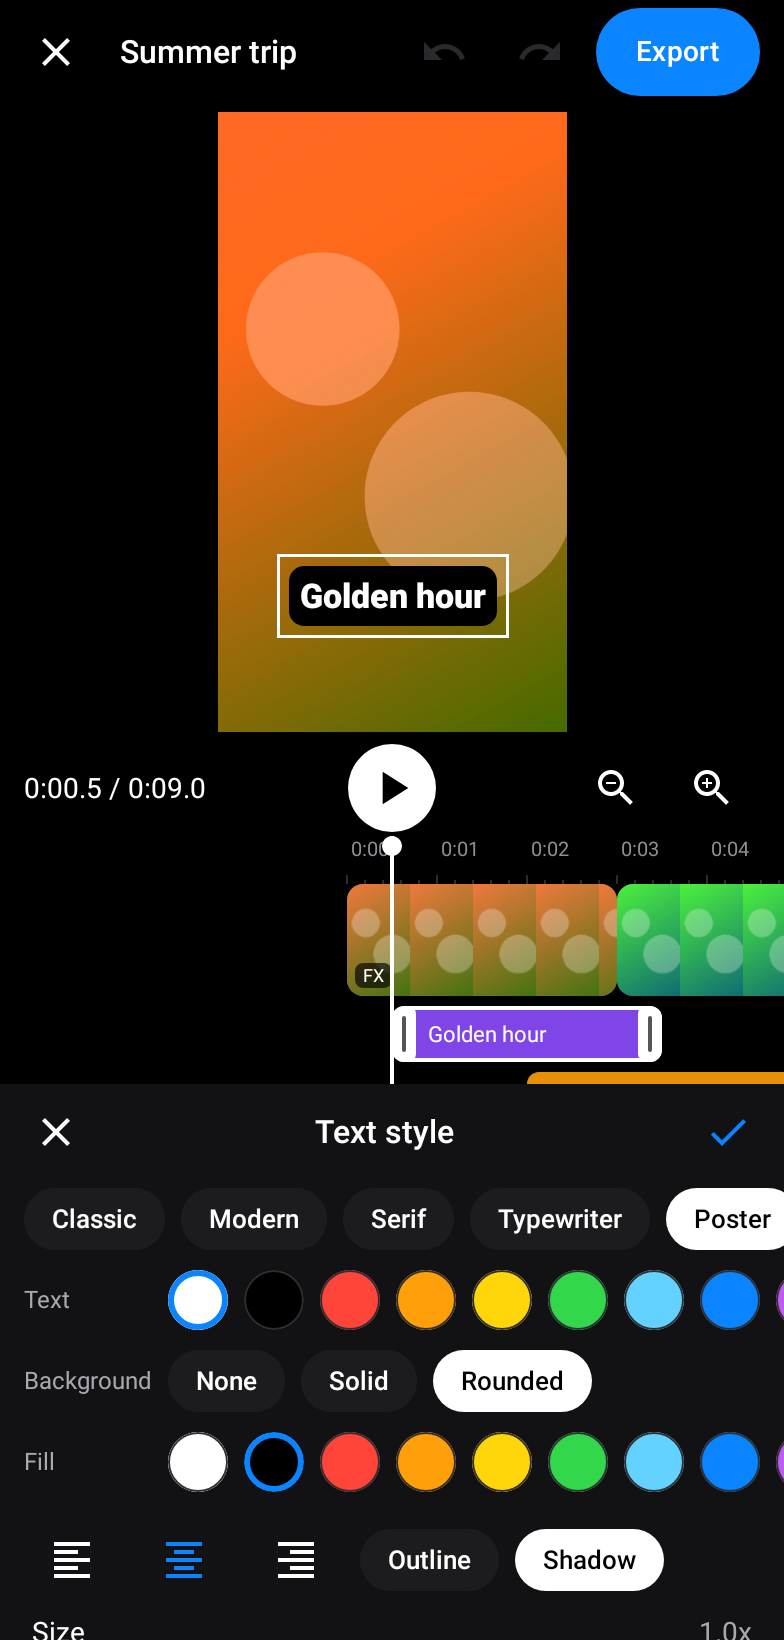
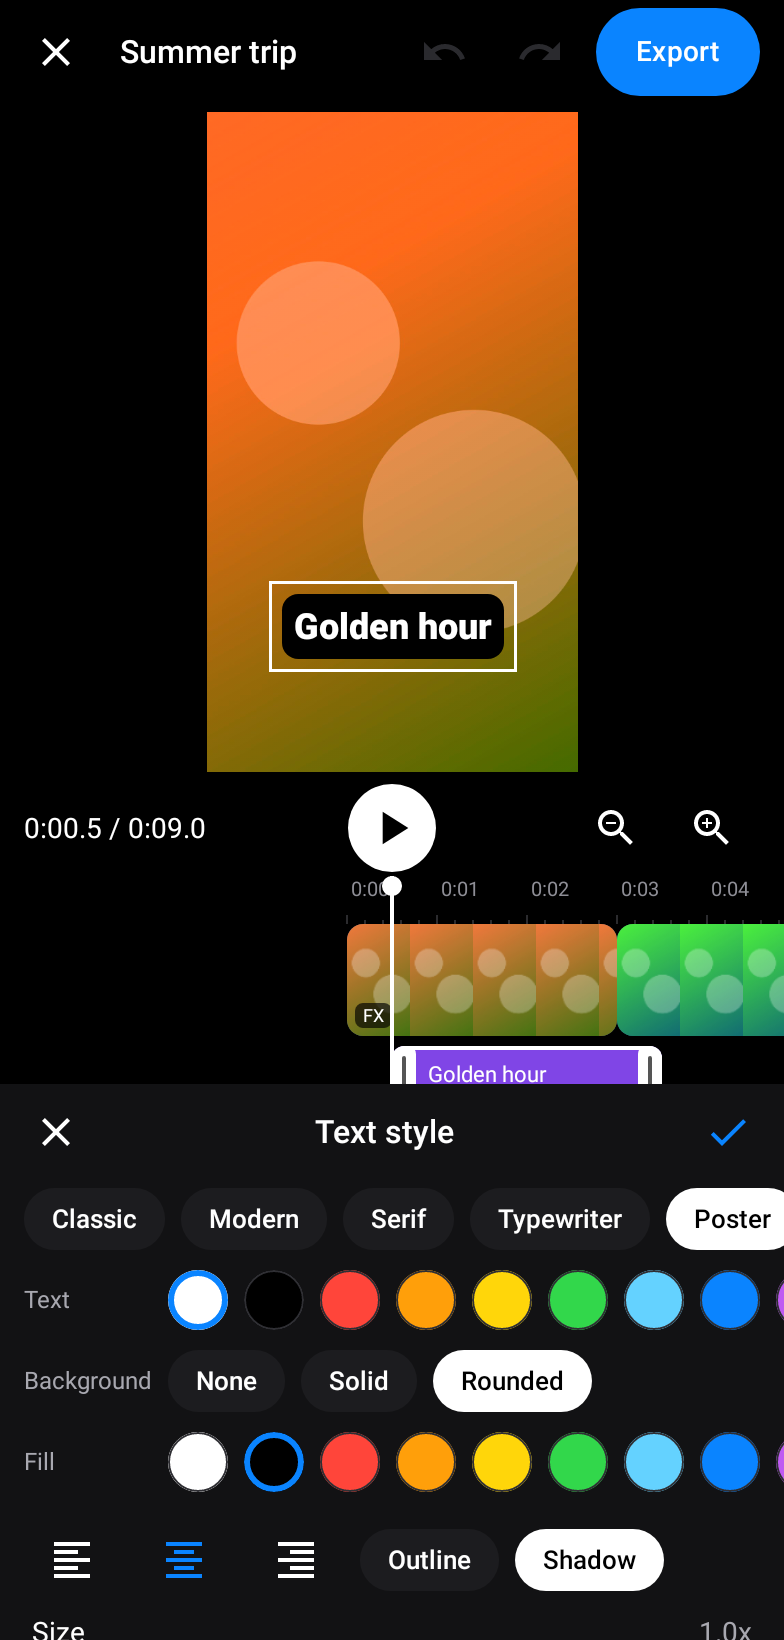
Fix speed export, scrubbing, muxer timeout; add QA build type; relayout panels
Claude-Session: https://claude.ai/code/session_01Vz41BQAvSH1RsxLjmMcDFD

Changed region(s): [[0.0306, 0.0622, 1.0, 0.6841], [0.3673, 0.1555, 0.4898, 0.1866]]

diff --git a/app/src/main/java/com/myedits/app/ui/editor/Panels.kt b/app/src/main/java/com/myedits/app/ui/editor/Panels.kt
@@ -272,7 +272,7 @@ private fun FilterPanel(vm: EditorViewModel) {
                     Modifier.clip(RoundedCornerShape(10.dp)).clickable { if (vm.selectedClip == null) vm.selectClipAtPlayhead(); vm.setFilter(f.id, all) }.testTag("filter_${f.id}"),
                     horizontalAlignment = Alignment.CenterHorizontally,
                 ) {
-                    Box(Modifier.size(64.dp, 80.dp).clip(RoundedCornerShape(10.dp)).background(EditsColors.Surface3).then(if (selected) Modifier.border(2.dp, EditsColors.Blue, RoundedCornerShape(10.dp)) else Modifier)) {
+                    Box(Modifier.size(60.dp, 72.dp).clip(RoundedCornerShape(10.dp)).background(EditsColors.Surface3).then(if (selected) Modifier.border(2.dp, EditsColors.Blue, RoundedCornerShape(10.dp)) else Modifier)) {
                         frame?.let {
                             Image(
                                 it.asImageBitmap(), null, contentScale = ContentScale.Crop, modifier = Modifier.fillMaxSize(),
@@ -410,13 +410,15 @@ private fun SoundsPanel(vm: EditorViewModel) {
         LazyRow(Modifier.padding(vertical = 8.dp), contentPadding = PaddingValues(horizontal = 12.dp), horizontalArrangement = Arrangement.spacedBy(10.dp)) {
             items(SoundLibrary.items.filter { it.category == tab }) { item ->
                 Column(
-                    Modifier.width(112.dp).clip(RoundedCornerShape(12.dp)).background(EditsColors.Surface2).padding(10.dp).testTag("sound_${item.id}"),
-                    verticalArrangement = Arrangement.spacedBy(4.dp),
+                    Modifier.width(124.dp).clip(RoundedCornerShape(12.dp)).background(EditsColors.Surface2).padding(10.dp).testTag("sound_${item.id}"),
+                    verticalArrangement = Arrangement.spacedBy(2.dp),
                 ) {
-                    Text(item.emoji, fontSize = 24.sp)
+                    Row(verticalAlignment = Alignment.CenterVertically, horizontalArrangement = Arrangement.spacedBy(6.dp)) {
+                        Text(item.emoji, fontSize = 20.sp)
+                        Text(formatDuration(item.durationMs), color = EditsColors.TextDim, style = MaterialTheme.typography.bodySmall)
+                    }
                     Text(item.label, color = Color.White, maxLines = 1, overflow = TextOverflow.Ellipsis, style = MaterialTheme.typography.bodyMedium, fontWeight = FontWeight.Medium)
-                    Text(formatDuration(item.durationMs), color = EditsColors.TextDim, style = MaterialTheme.typography.bodySmall)
-                    Row(horizontalArrangement = Arrangement.spacedBy(6.dp)) {
+                    Row(horizontalArrangement = Arrangement.spacedBy(6.dp), modifier = Modifier.padding(top = 4.dp)) {
                         IconButton({ scope.launch { preview(item) } }, Modifier.size(34.dp).background(EditsColors.Surface3, CircleShape).testTag("sound_play_${item.id}")) {
                             Icon(if (playingId == item.id) Icons.Filled.Stop else Icons.Filled.PlayArrow, "Preview", tint = Color.White, modifier = Modifier.size(18.dp))
                         }

diff --git a/app/src/main/java/com/myedits/app/MainActivity.kt b/app/src/main/java/com/myedits/app/MainActivity.kt
@@ -38,13 +38,13 @@ class MainActivity : ComponentActivity() {
         enableEdgeToEdge()
         super.onCreate(savedInstanceState)
         setContent { MyEditsTheme { AppRoot() } }
-        if (BuildConfig.DEBUG) handleDebugSeed(intent)
+        if (BuildConfig.DEBUG || BuildConfig.QA) handleDebugSeed(intent)
     }
 
     override fun onNewIntent(intent: android.content.Intent) {
         super.onNewIntent(intent)
         setIntent(intent)
-        if (BuildConfig.DEBUG) handleDebugSeed(intent)
+        if (BuildConfig.DEBUG || BuildConfig.QA) handleDebugSeed(intent)
     }
 
     /**
@@ -55,7 +55,24 @@ class MainActivity : ComponentActivity() {
         val paths = intent?.getStringArrayExtra("seed_media") ?: return
         intent.removeExtra("seed_media")
         val uris = paths.map { android.net.Uri.fromFile(java.io.File(it)) }
-        androidx.lifecycle.ViewModelProvider(this, HomeViewModel.Factory(container))[HomeViewModel::class.java].createFromUris(uris)
+        val demo = intent.getBooleanExtra("seed_demo", false)
+        val seedSpeed = intent.getFloatExtra("seed_speed", 1f)
+        val c = container
+        val decorate: ((com.myedits.app.data.Project) -> com.myedits.app.data.Project)? = if (seedSpeed != 1f) { p ->
+            com.myedits.app.engine.ProjectOps.updateAllClips(p) { it.copy(speed = seedSpeed) }
+        } else if (!demo) null else { p ->
+            // A project that exercises most of the pipeline: filters, fades, speed, text, sticker, audio.
+            var q = p
+            q.clips.getOrNull(0)?.let { cl -> q = com.myedits.app.engine.ProjectOps.updateClip(q, cl.id) { it.copy(filter = "sunset", filterIntensity = 0.8f, fadeInMs = 300) } }
+            q.clips.getOrNull(1)?.let { cl -> q = com.myedits.app.engine.ProjectOps.updateClip(q, cl.id) { it.copy(filter = "vivid", zoom = 1.2f, fit = com.myedits.app.data.FitMode.FILL) } }
+            q.clips.getOrNull(2)?.let { cl -> q = com.myedits.app.engine.ProjectOps.updateClip(q, cl.id) { it.copy(speed = 2f, filter = "mono") } }
+            q = com.myedits.app.engine.ProjectOps.addText(q, com.myedits.app.engine.ProjectOps.defaultText(q, 300, "Golden hour").copy(y = 0.8f, bg = com.myedits.app.data.TextBg.ROUNDED, font = com.myedits.app.data.FontStyleId.BOLD))
+            q = com.myedits.app.engine.ProjectOps.addSticker(q, com.myedits.app.engine.ProjectOps.defaultSticker(q, 300, "\uD83D\uDD25").copy(x = 0.8f, y = 0.2f))
+            val wav = com.myedits.app.audio.SoundLibrary.file(c.soundDir, "sfx_chime")
+            val dest = c.repository.newMediaFile(p.id, "wav").also { wav.copyTo(it, overwrite = true) }
+            com.myedits.app.engine.ProjectOps.addAudio(q, com.myedits.app.engine.ProjectOps.makeAudio(q, dest.path, "Chime", com.myedits.app.data.AudioKind.SFX, 1800, 500))
+        }
+        androidx.lifecycle.ViewModelProvider(this, HomeViewModel.Factory(container))[HomeViewModel::class.java].createFromUris(uris, decorate = decorate)
     }
 }
 

diff --git a/app/src/main/java/com/myedits/app/ui/editor/Timeline.kt b/app/src/main/java/com/myedits/app/ui/editor/Timeline.kt
@@ -237,6 +237,9 @@ fun Timeline(
                     var mode = 0 // 0 undecided, 1 scrub, 2 vertical scroll, 3 trim/move, 4 zoom
                     var totalDx = 0f; var totalDy = 0f
                     var startSel: Selection? = null
+                    // Scrub from a locally accumulated position: on a busy device several move events can arrive
+                    // before the playhead state recomposes, and re-reading it would drop most of the movement.
+                    var scrubPos = curPlayhead.toDouble()
 
                     // capture state for drag modes
                     val clipHit = (hit as? Hit.ClipEdge)?.let { h -> curLiveSpans.firstOrNull { it.clip.id == h.id } }
@@ -286,11 +289,18 @@ fun Timeline(
                                 else -> 1
                             }
                             moved = true
-                            if (mode == 1) onScrubbing(true)
+                            if (mode == 1) {
+                                onScrubbing(true)
+                                // movement made before the slop was crossed counts too (this event's delta is applied below)
+                                scrubPos = curPlayhead - (totalDx - dp.x) / curPx.toDouble()
+                            }
                             if (mode == 3) startSel = laneSel
                         }
                         if (c.pressed) when (mode) {
-                            1 -> { onSeek((curPlayhead - (dp.x / curPx)).roundToInt().toLong().coerceIn(0L, curLiveTotal)); c.consume() }
+                            1 -> {
+                                scrubPos = (scrubPos - dp.x / curPx).coerceIn(0.0, curLiveTotal.toDouble())
+                                onSeek(scrubPos.roundToInt().toLong()); c.consume()
+                            }
                             2 -> { scrollY = (scrollY - dp.y).coerceIn(0f, max(0f, curContentH - size.height)); c.consume() }
                             3 -> {
                                 val dMs = totalDx / curPx
@@ -359,7 +369,7 @@ fun Timeline(
                             onScrubbing(false)
                             if (abs(vx) > 400f) {
                                 scope.launch {
-                                    fling.snapTo(curPlayhead.toFloat())
+                                    fling.snapTo(scrubPos.toFloat())
                                     fling.animateDecay(-vx / curPx, exponentialDecay(frictionMultiplier = 1.6f)) {
                                         val ms = value.coerceIn(0f, curLiveTotal.toFloat())
                                         onSeek(ms.toLong())

diff --git a/app/src/main/java/com/myedits/app/engine/CompositionBuilder.kt b/app/src/main/java/com/myedits/app/engine/CompositionBuilder.kt
@@ -8,7 +8,7 @@ import androidx.media3.common.Effect
 import androidx.media3.common.MediaItem
 import androidx.media3.common.OverlaySettings
 import androidx.media3.common.audio.AudioProcessor
-import androidx.media3.common.audio.SpeedProvider
+import androidx.media3.common.audio.SonicAudioProcessor
 import androidx.media3.common.util.UnstableApi
 import androidx.media3.effect.*
 import androidx.media3.transformer.Composition
@@ -46,11 +46,6 @@ object CompositionBuilder {
     }
 
     private fun even(v: Int): Int = if (v % 2 == 0) v else v + 1
-
-    private class ConstantSpeed(private val speed: Float) : SpeedProvider {
-        override fun getSpeed(timeUs: Long): Float = speed
-        override fun getNextSpeedChangeTimeUs(timeUs: Long): Long = C.TIME_UNSET
-    }
 
     fun build(p: Project, spec: RenderSpec): Composition {
         require(p.clips.isNotEmpty()) { "Project has no clips" }
@@ -130,11 +125,11 @@ object CompositionBuilder {
         if (!ColorMath.isIdentity(m)) videoEffects += RgbMatrix { _, _ -> m }
 
         val audioProcessors = mutableListOf<AudioProcessor>()
-        val speedPair = if (!c.isImage && c.speed != 1f) Effects.createExperimentalSpeedChangingEffect(ConstantSpeed(c.speed)) else null
-        // 3. speed (video + matching audio resampling)
-        if (speedPair != null) {
-            videoEffects += speedPair.second
-            audioProcessors += speedPair.first
+        // 3. speed (video timestamps + matching audio resampling). The classic SpeedChangeEffect/Sonic pair is used
+        //    because the experimental speed-provider variant dropped the tail of the last item's video on device.
+        if (!c.isImage && c.speed != 1f) {
+            videoEffects += SpeedChangeEffect(c.speed)
+            audioProcessors += SonicAudioProcessor().apply { setSpeed(c.speed) }
         }
         // 4. fit/fill into the canvas
         videoEffects += Presentation.createForWidthAndHeight(

diff --git a/app/src/test/java/com/myedits/app/ui/EditorUiTest.kt b/app/src/test/java/com/myedits/app/ui/EditorUiTest.kt
@@ -1,6 +1,7 @@
 package com.myedits.app.ui
 
 import androidx.activity.ComponentActivity
+import androidx.compose.ui.geometry.Offset
 import androidx.compose.ui.semantics.SemanticsActions
 import androidx.compose.ui.test.*
 import androidx.compose.ui.test.junit4.createAndroidComposeRule
@@ -263,6 +264,26 @@ class EditorUiTest {
         tag("editor_undo").assertIsEnabled()
         click("editor_undo"); assertEquals(0, project().clips[0].rotation); tag("editor_redo").assertIsEnabled()
         click("editor_redo"); assertEquals(90, project().clips[0].rotation)
+    }
+
+    @Test fun swipingTheTimelineScrubsThePlayheadBothWays() {
+        val p = TestData.project(n = 3); open(p)
+        tag("time_label").assertTextContains("0:00.0", substring = true)
+        tag("timeline").performTouchInput { swipe(Offset(centerX + 150f, centerY), Offset(centerX - 150f, centerY), durationMillis = 400) }
+        rule.waitFor { true }
+        val after = fake.positionMs
+        assertTrue("playhead moved forward, got $after", after > 1500)
+        tag("timeline").performTouchInput { swipe(Offset(centerX - 150f, centerY), Offset(centerX + 150f, centerY), durationMillis = 400) }
+        rule.waitFor { true }
+        assertTrue("playhead moved back", fake.positionMs < after - 1500)
+    }
+
+    @Test fun scrubbingNeverLeavesTheProject() {
+        val p = TestData.project(n = 1); open(p)
+        tag("timeline").performTouchInput { swipe(Offset(centerX + 150f, centerY), Offset(centerX - 150f, centerY), durationMillis = 300); swipe(Offset(centerX + 150f, centerY), Offset(centerX - 150f, centerY), durationMillis = 300) }
+        rule.waitFor { true }
+        assertTrue(fake.positionMs <= 3000)
+        tag("time_label").assertTextContains("/ 0:03.0", substring = true)
     }
 
     @Test fun zoomButtonsKeepTimelineUsable() {

diff --git a/app/src/test/java/com/myedits/app/CompositionBuilderTest.kt b/app/src/test/java/com/myedits/app/CompositionBuilderTest.kt
@@ -68,11 +68,11 @@ class CompositionBuilderTest {
         val types = CompositionBuilder.clipItem(c, spec).effects.videoEffects.map { it.javaClass.simpleName }
         assertTrue(types.toString(), types.contains("ScaleAndRotateTransformation"))
         assertTrue(types.toString(), types.any { it.contains("Lambda") || it.contains("RgbMatrix") || it.contains("\$\$") })
-        assertTrue(types.toString(), types.contains("TimestampAdjustment")) // media3 models speed as a timestamp adjustment
+        assertTrue(types.toString(), types.contains("SpeedChangeEffect"))
         assertTrue(types.toString(), types.contains("Presentation"))
         // Presentation must come after rotation/colour/speed and before the zoom
         assertTrue(types.indexOf("ScaleAndRotateTransformation") < types.indexOf("Presentation"))
-        assertTrue(types.indexOf("TimestampAdjustment") < types.indexOf("Presentation"))
+        assertTrue(types.indexOf("SpeedChangeEffect") < types.indexOf("Presentation"))
         assertTrue(types.indexOf("Presentation") < types.lastIndex)
     }
 

diff --git a/app/src/main/java/com/myedits/app/ui/home/HomeViewModel.kt b/app/src/main/java/com/myedits/app/ui/home/HomeViewModel.kt
@@ -70,7 +70,7 @@ class HomeViewModel(private val app: AppContainer) : ViewModel() {
         viewModelScope.launch { val p = newProject(name, template); refresh(); _open.emit(p.id to camera) }
     }
 
-    fun createFromUris(uris: List<Uri>, template: String = "") {
+    fun createFromUris(uris: List<Uri>, template: String = "", decorate: ((Project) -> Project)? = null) {
         if (uris.isEmpty()) return
         viewModelScope.launch {
             busy = "Importing ${uris.size} item${if (uris.size > 1) "s" else ""}…"
@@ -80,6 +80,7 @@ class HomeViewModel(private val app: AppContainer) : ViewModel() {
                 val clips = app.importer.importVisual(p.id, uris)
                 var withClips = ProjectOps.appendClips(p, clips)
                 withClips = Templates.applyOnFirstImport(withClips, true)
+                decorate?.let { withClips = it(withClips) }
                 withContext(Dispatchers.IO) { app.repository.save(withClips); app.repository.writeCover(withClips) }
                 refresh()
                 _open.emit(p.id to false)

diff --git a/app/src/main/java/com/myedits/app/ui/editor/EditorScreen.kt b/app/src/main/java/com/myedits/app/ui/editor/EditorScreen.kt
@@ -106,8 +106,8 @@ fun EditorScreen(
         BoxWithConstraints(Modifier.fillMaxSize().systemBarsPadding().imePadding().testTag("editor_screen")) {
             // Keep the preview big: tool panels get a bounded share of the height and the timeline
             // shrinks to its essentials while a panel is open.
-            val panelMax = (maxHeight * 0.34f).coerceIn(190.dp, 300.dp)
-            val timelineMax = if (vm.panel != Panel.NONE) 124.dp else 216.dp
+            val panelMax = (maxHeight * 0.44f).coerceIn(200.dp, 340.dp)
+            val timelineMax = if (vm.panel != Panel.NONE) 104.dp else 216.dp
             Column(Modifier.fillMaxSize()) {
                 TopBar(vm, onClose = ::leave, onRename = { showRename = true }, onExport = { vm.pause(); showExport = true })
                 PreviewPane(vm, Modifier.weight(1f).fillMaxWidth().padding(vertical = 4.dp), previewSurface)

diff --git a/app/src/main/java/com/myedits/app/engine/Exporter.kt b/app/src/main/java/com/myedits/app/engine/Exporter.kt
@@ -64,6 +64,8 @@ class Exporter(private val context: Context) {
                             .setVideoMimeType(MimeTypes.VIDEO_H264)
                             .setAudioMimeType(MimeTypes.AUDIO_AAC)
                             .setEncoderFactory(encoder)
+                            // The default 10 s gap limit is too tight for effect-heavy 4K on slow devices; users can still cancel.
+                            .setMaxDelayBetweenMuxerSamplesMs(90_000)
                             .addListener(object : Transformer.Listener {
                                 override fun onCompleted(composition: Composition, exportResult: ExportResult) {
                                     if (cont.isActive) cont.resume(Unit)
